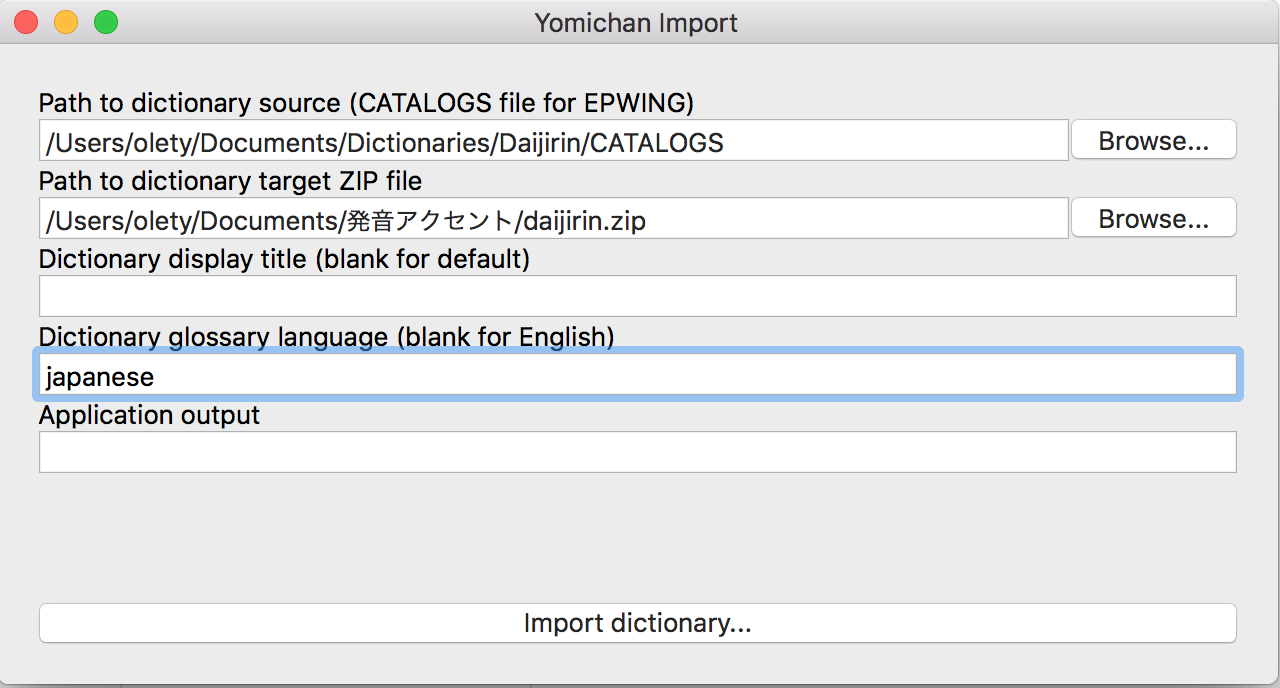
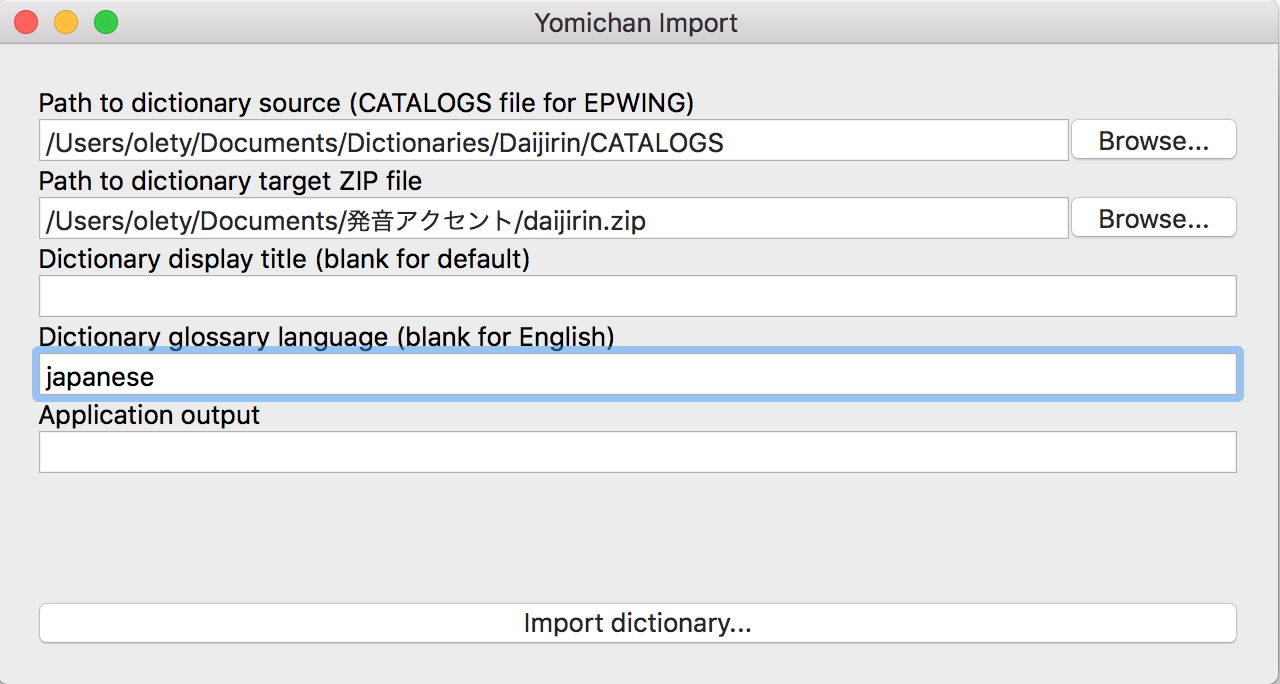
Added a note for windows users + slightly cropped the yomichan picture

diff --git a/README.md b/README.md
@@ -57,9 +57,13 @@ In order to convert an EPWING dictionary to kindle, you first have to follow the
 ```
 ./yomichan-import
 ```
+[Yomichan-import](https://github.com/FooSoft/yomichan-import/) is a great app that utilizes [zero-epwing](https://github.com/FooSoft/zero-epwing) to convert EPWING data into much more easily parseable JSON files.
+
+**Note for Windows users**: Because zero-epwing does not support non-ASCII characters (like the Japanese ones), yomichan-import won't work if you have any of them in your CATALOGS path. It should work just fine on unix systems.
+
 <br>
 <p align="center">
-<img src="images/yomichan-import.png" alt="Result demonstration" width="450" />
+<img src="images/yomichan-import.png" alt="Result demonstration" width="450" /></br>
 <sup>How to use yomichan-import</sup>
 </p>
 
